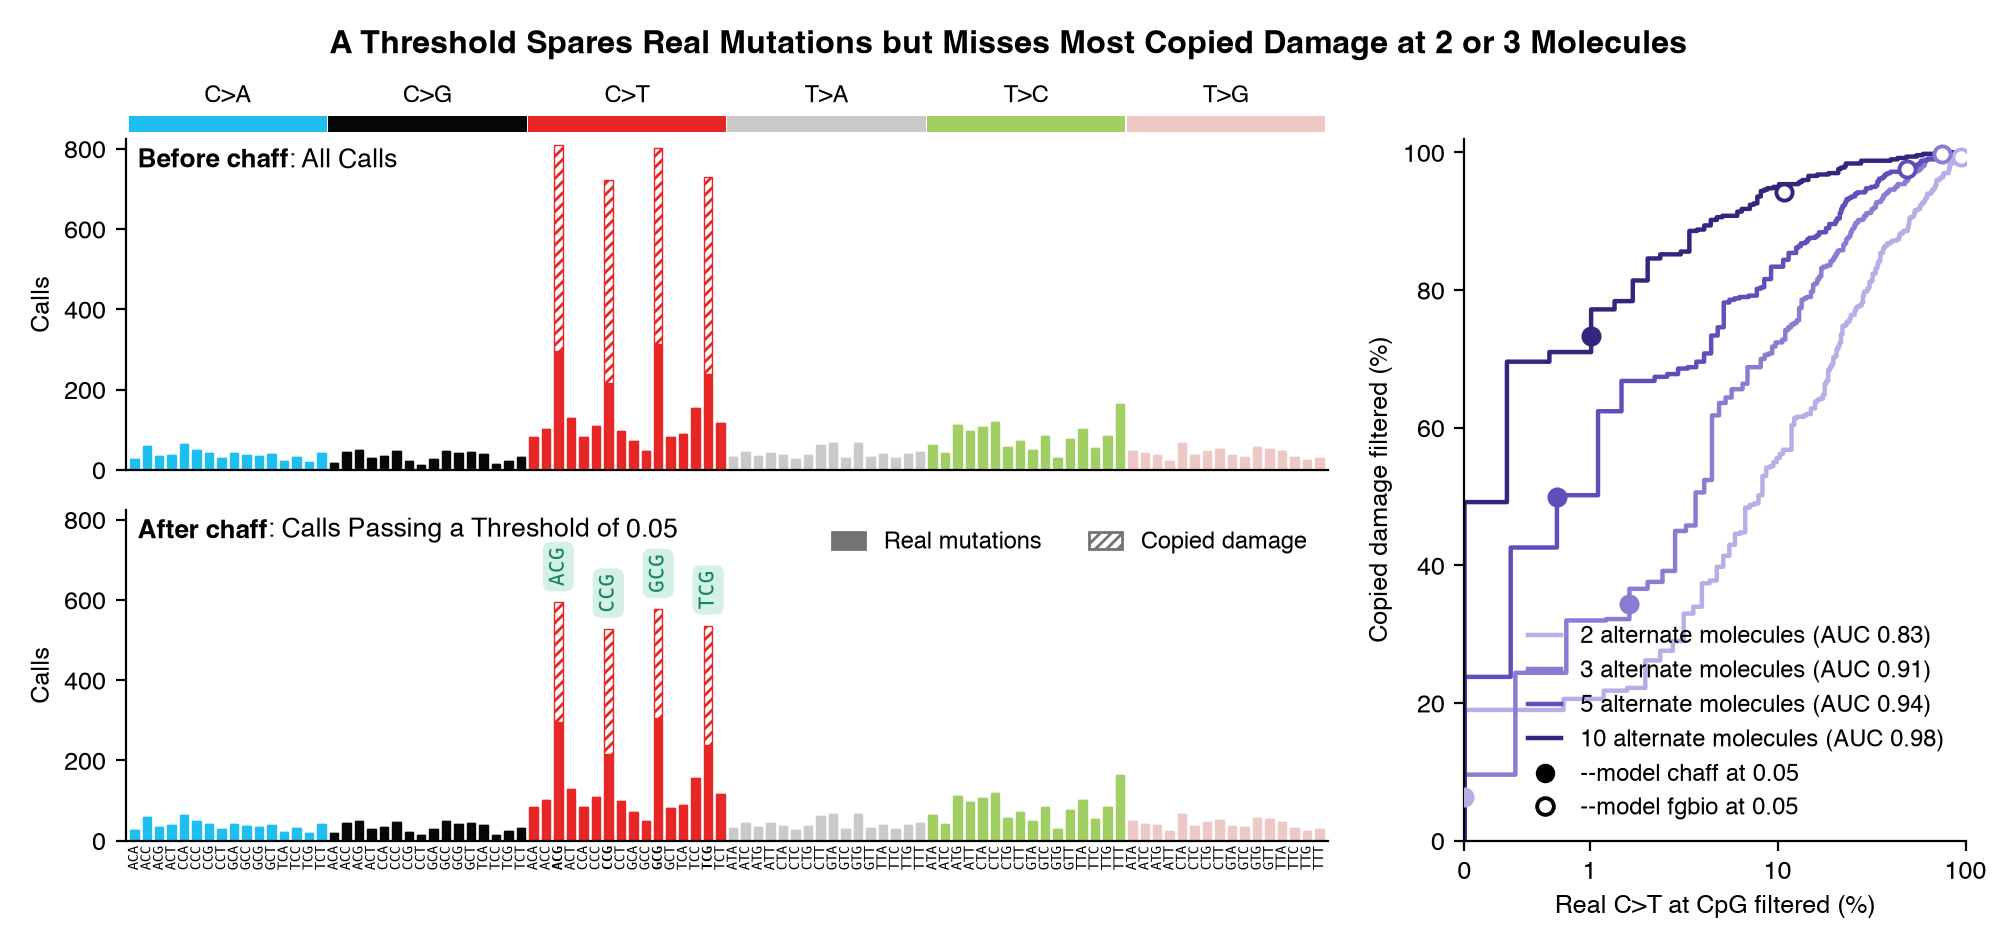
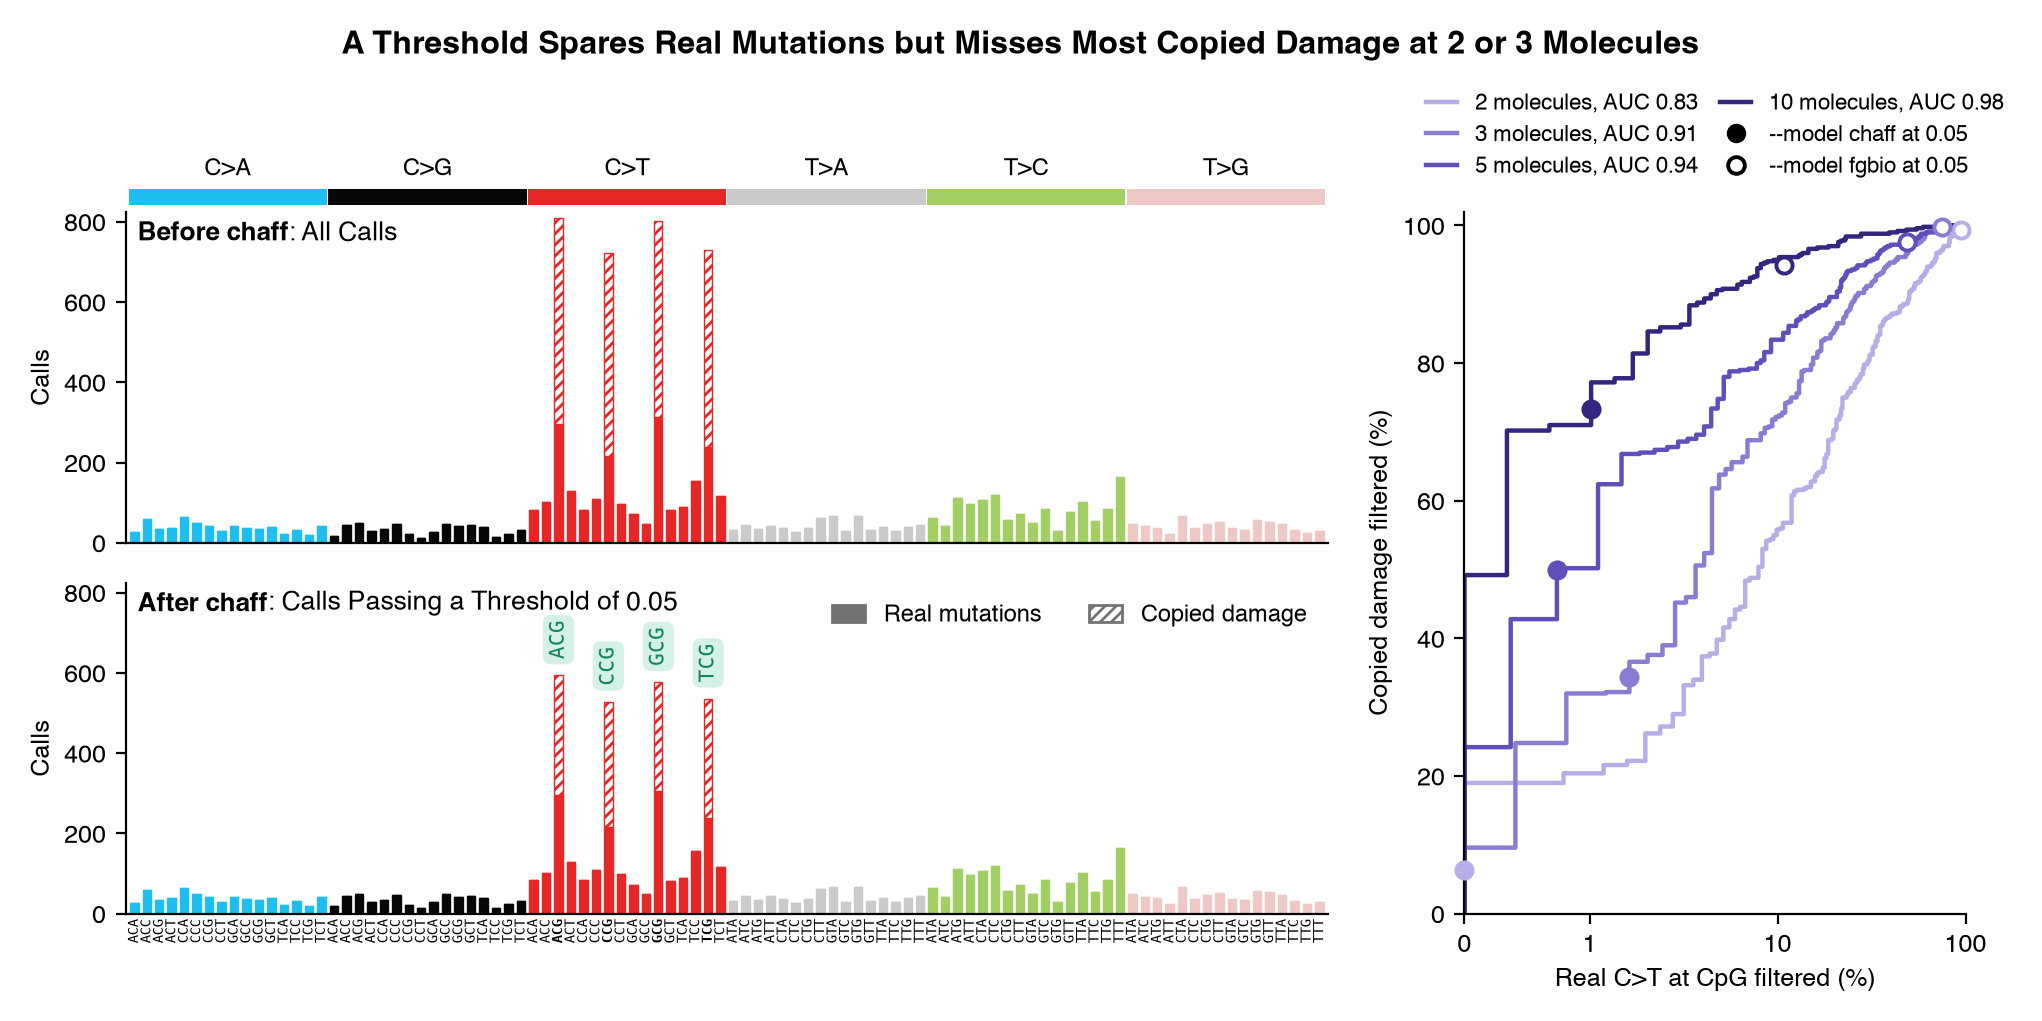
docs(figures): keep legends and markers off the data and redraw
The ends legend sits in one row above the panels, the ROC legend above
its axes, and no marker is clipped at an axis. The learning figure's left
panel title no longer repeats the headline, the 40% markers stand apart,
the inset clears them, and the fgbio markers clear the top. Redrawn with
the shrunk decay, 66% of copied damage's alternate molecules sit within
the learned scale, up from 65%.

diff --git a/tests/figures.py b/tests/figures.py
@@ -180,7 +180,7 @@ def finish(fig, name, title):
 
 def ends_figure(truth, called):
     scale = metrics(WORK, "distance")
-    groups = [("artifact", "Copied damage, alternate molecules", ALT_COLOR, "cdac"), ("real", "Real mutations, alternate molecules", REAL_COLOR, "cdac"),
+    groups = [("artifact", "Copied damage", ALT_COLOR, "cdac"), ("real", "Real mutations", REAL_COLOR, "cdac"),
               ("reference", "Reference molecules", REF_COLOR, "cdrc")]
     measured, bins = distances(truth), np.arange(0, 401, 10)
     fig, axes = plt.subplots(1, 2, figsize=(8.6, 3.2), sharey=True)
@@ -203,8 +203,8 @@ def ends_figure(truth, called):
     for kind, name, color, field in groups:
         text = f"{name}: {share(called, truth, None if kind == 'reference' else kind, field):.0f}%" + (f" within {scale:.0f} bp" if kind == "artifact" else "")
         handles.append(Patch(facecolor=color, alpha=0.3, edgecolor=color, label=text) if kind == "reference" else Line2D([], [], color=color, lw=1.8, label=text))
-    axes[0].legend(handles=handles, loc="upper right", fontsize=8.5, handlelength=1.6, bbox_to_anchor=(1.0, 0.8))
     fig.tight_layout(w_pad=2.0)
+    fig.legend(handles=handles, loc="lower center", bbox_to_anchor=(0.5, 0.99), ncol=3, fontsize=8.5, handlelength=1.6, columnspacing=1.6)
     finish(fig, "copied-damage-ends.png", "Copied Damage Crowds the Lesion Strand's 5′ End; Real Mutations Follow the Reference")
 
 
@@ -268,17 +268,17 @@ def outcome_figure(truth, chaff, fgbio):
     for n, color in zip(ALT_MOLECULES, RAMP):
         ax.plot(*roc(chaff, truth, n), color=color, lw=1.6, drawstyle="steps-post", zorder=2)
         for called, face in ((chaff, color), (fgbio, "white")):
-            ax.scatter(*operating_point(called, truth, n), s=34, facecolors=face, edgecolors=color, linewidths=1.4, zorder=4)
+            ax.scatter(*operating_point(called, truth, n), s=34, facecolors=face, edgecolors=color, linewidths=1.4, zorder=4, clip_on=False)
     ax.set_xscale("symlog", linthresh=1, linscale=0.6)
     ax.set_xlim(0, 100)
     ax.set_ylim(0, 102)
     ax.set_xticks([0, 1, 10, 100], ["0", "1", "10", "100"])
     ax.set_xlabel("Real C>T at CpG filtered (%)")
     ax.set_ylabel("Copied damage filtered (%)")
-    handles = [Line2D([], [], color=c, lw=1.6, label=f"{n} alternate molecules (AUC {auc(chaff, truth, n):.2f})") for n, c in zip(ALT_MOLECULES, RAMP)]
+    handles = [Line2D([], [], color=c, lw=1.6, label=f"{n} molecules, AUC {auc(chaff, truth, n):.2f}") for n, c in zip(ALT_MOLECULES, RAMP)]
     handles += [Line2D([], [], ls="", marker="o", ms=6, mfc=face, mec="black", mew=1.4 if face == "white" else 1.0, label=f"--model {m} at {THRESHOLD}")
                 for m, face in (("chaff", "black"), ("fgbio", "white"))]
-    ax.legend(handles=handles, loc="lower right", fontsize=8.5, handlelength=1.4)
+    ax.legend(handles=handles, loc="lower center", bbox_to_anchor=(0.5, 1.02), ncol=2, fontsize=8, handlelength=1.4, columnspacing=1.0)
     fig.subplots_adjust(left=0.07, right=0.99, bottom=0.12, top=0.9)
     finish(fig, "copied-damage-filtering.png", "A Threshold Spares Real Mutations but Misses Most Copied Damage at 2 or 3 Molecules")
 
@@ -314,14 +314,14 @@ def learning_figure(libs):
         ax.set_box_aspect(1)
     left.plot([0, 70], [0, 70], color=GRAY, lw=0.9, ls="--", zorder=1)
     for lib in libs:
-        marker = {15: "s", 30: "o", 60: "D"}[lib["scale"]]
-        left.scatter(100 * lib["fraction"], 100 * lib["learned"], s=36, marker=marker, color=ALT_COLOR, zorder=3)
+        marker, nudge = {15: ("s", -2.4), 30: ("o", 0.0), 60: ("D", 2.4)}[lib["scale"]]
+        left.scatter(100 * lib["fraction"] + nudge, 100 * lib["learned"], s=36, marker=marker, color=ALT_COLOR, zorder=3, clip_on=False)
     left.set_xlim(0, 70)
     left.set_ylim(0, 70)
     left.set_xlabel("True copied damage (% of calls)")
     left.set_ylabel("Learned artifact fraction (%)")
-    left.set_title("chaff Understates Heavy Damage", fontsize=10, fontweight="bold", loc="left")
-    inset = left.inset_axes([0.6, 0.1, 0.36, 0.36])
+    left.set_title("Learned Against True Damage", fontsize=10, fontweight="bold", loc="left")
+    inset = left.inset_axes([0.66, 0.13, 0.31, 0.29])
     inset.plot([0, 80], [0, 80], color=GRAY, lw=0.8, ls="--", zorder=1)
     for lib in libs:
         if lib["fraction"] > 0:
@@ -338,9 +338,10 @@ def learning_figure(libs):
     for model, face, style in (("chaff", REAL_COLOR, "-"), ("fgbio", "white", "--")):
         x, y, _ = zip(*calibration(libs, model))
         right.plot(x, y, color=REAL_COLOR, lw=1.2, ls=style, zorder=2)
-        right.scatter(x, y, s=30, facecolors=face, edgecolors=REAL_COLOR, linewidths=1.3, zorder=3, label=f"--model {model}")
+        right.scatter(x, y, s=30, facecolors=face, edgecolors=REAL_COLOR, linewidths=1.3, zorder=3, label=f"--model {model}", clip_on=False)
     right.set_xlim(0, 1)
-    right.set_ylim(0, 1)
+    right.set_ylim(0, 1.06)
+    right.set_yticks([0, 0.2, 0.4, 0.6, 0.8, 1.0])
     right.set_xlabel("CDAP, the posterior that a call is real")
     right.set_ylabel("Calls that are real")
     right.set_title("Its Posteriors Lean Toward Real", fontsize=10, fontweight="bold", loc="left")

diff --git a/README.md b/README.md
@@ -90,7 +90,7 @@ Fragmenting with a restriction enzyme that leaves blunt ends, as NanoSeq does [[
 - **Use it when:** UMI-bearing adapters are ligated after any polymerase fills in ends, nicks, or gaps, as in Duplex Sequencing; it needs the reference, `--ref`.
 
 As the copied damage diagram shows, the copy runs from the partner's recessed end toward the lesion strand's 5′ end, so copied lesions sit near that end, while a real mutation's molecules sit wherever the reference molecules do.
-On a simulated duplex sample of 6,000 real mutations and 2,000 copied-damage calls at CpG C>T, a quarter of each with 2, 3, 5, or 10 alternate molecules, about 400 duplex molecules per site, fragments of median length 200 bp, and fill-in that copies 80% of lesions from the lesion strand's 5′ end over an exponential length with a mean of 30 bp and the rest from internal nicks anywhere in the template, the tool learns a scale of 42.0 bp, and 65% of the copied damage's alternate molecules sit within it, against 23% of the real mutations' and of the reference molecules:
+On a simulated duplex sample of 6,000 real mutations and 2,000 copied-damage calls at CpG C>T, a quarter of each with 2, 3, 5, or 10 alternate molecules, about 400 duplex molecules per site, fragments of median length 200 bp, and fill-in that copies 80% of lesions from the lesion strand's 5′ end over an exponential length with a mean of 30 bp and the rest from internal nicks anywhere in the template, the tool learns a scale of 42.0 bp, and 66% of the copied damage's alternate molecules sit within it, against 23% of the real mutations' and of the reference molecules:
 
 ![Distances of alternate and reference molecules from the lesion strand's 5′ and 3′ ends: copied damage piles up near the 5′ end and avoids the 3′ end, while real mutations follow the reference molecules.](.github/img/copied-damage-ends.png)
 
